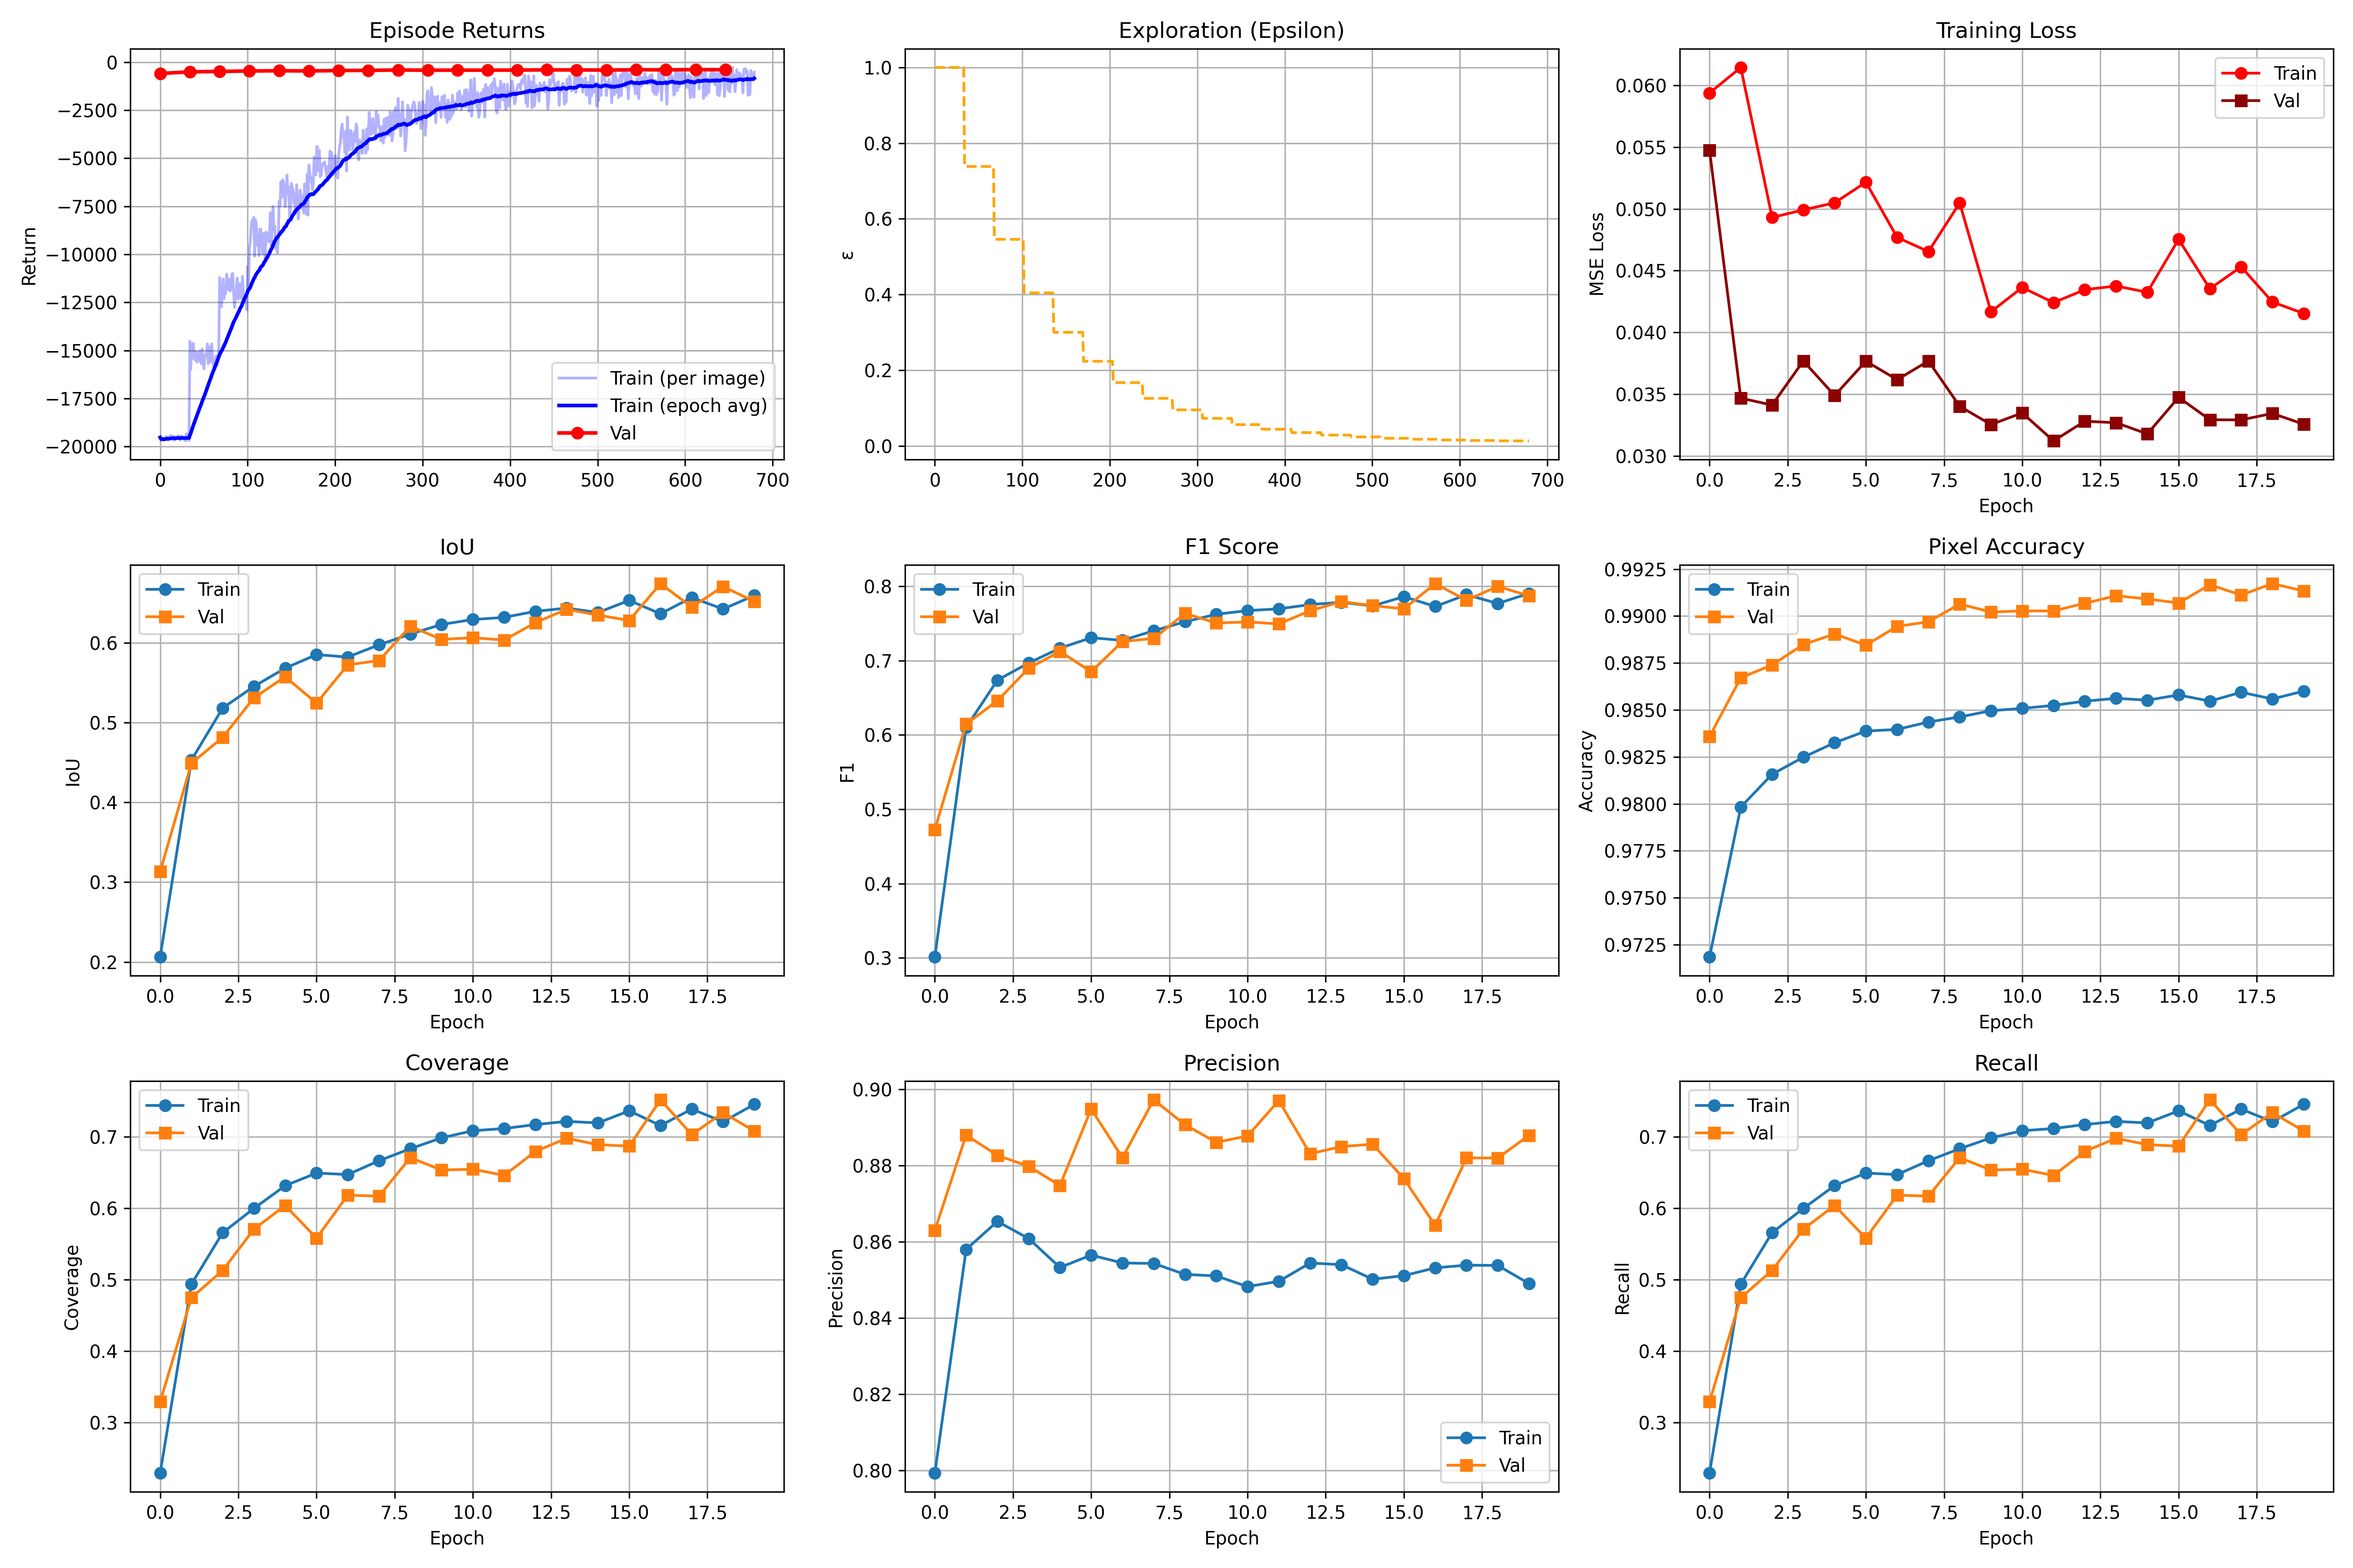
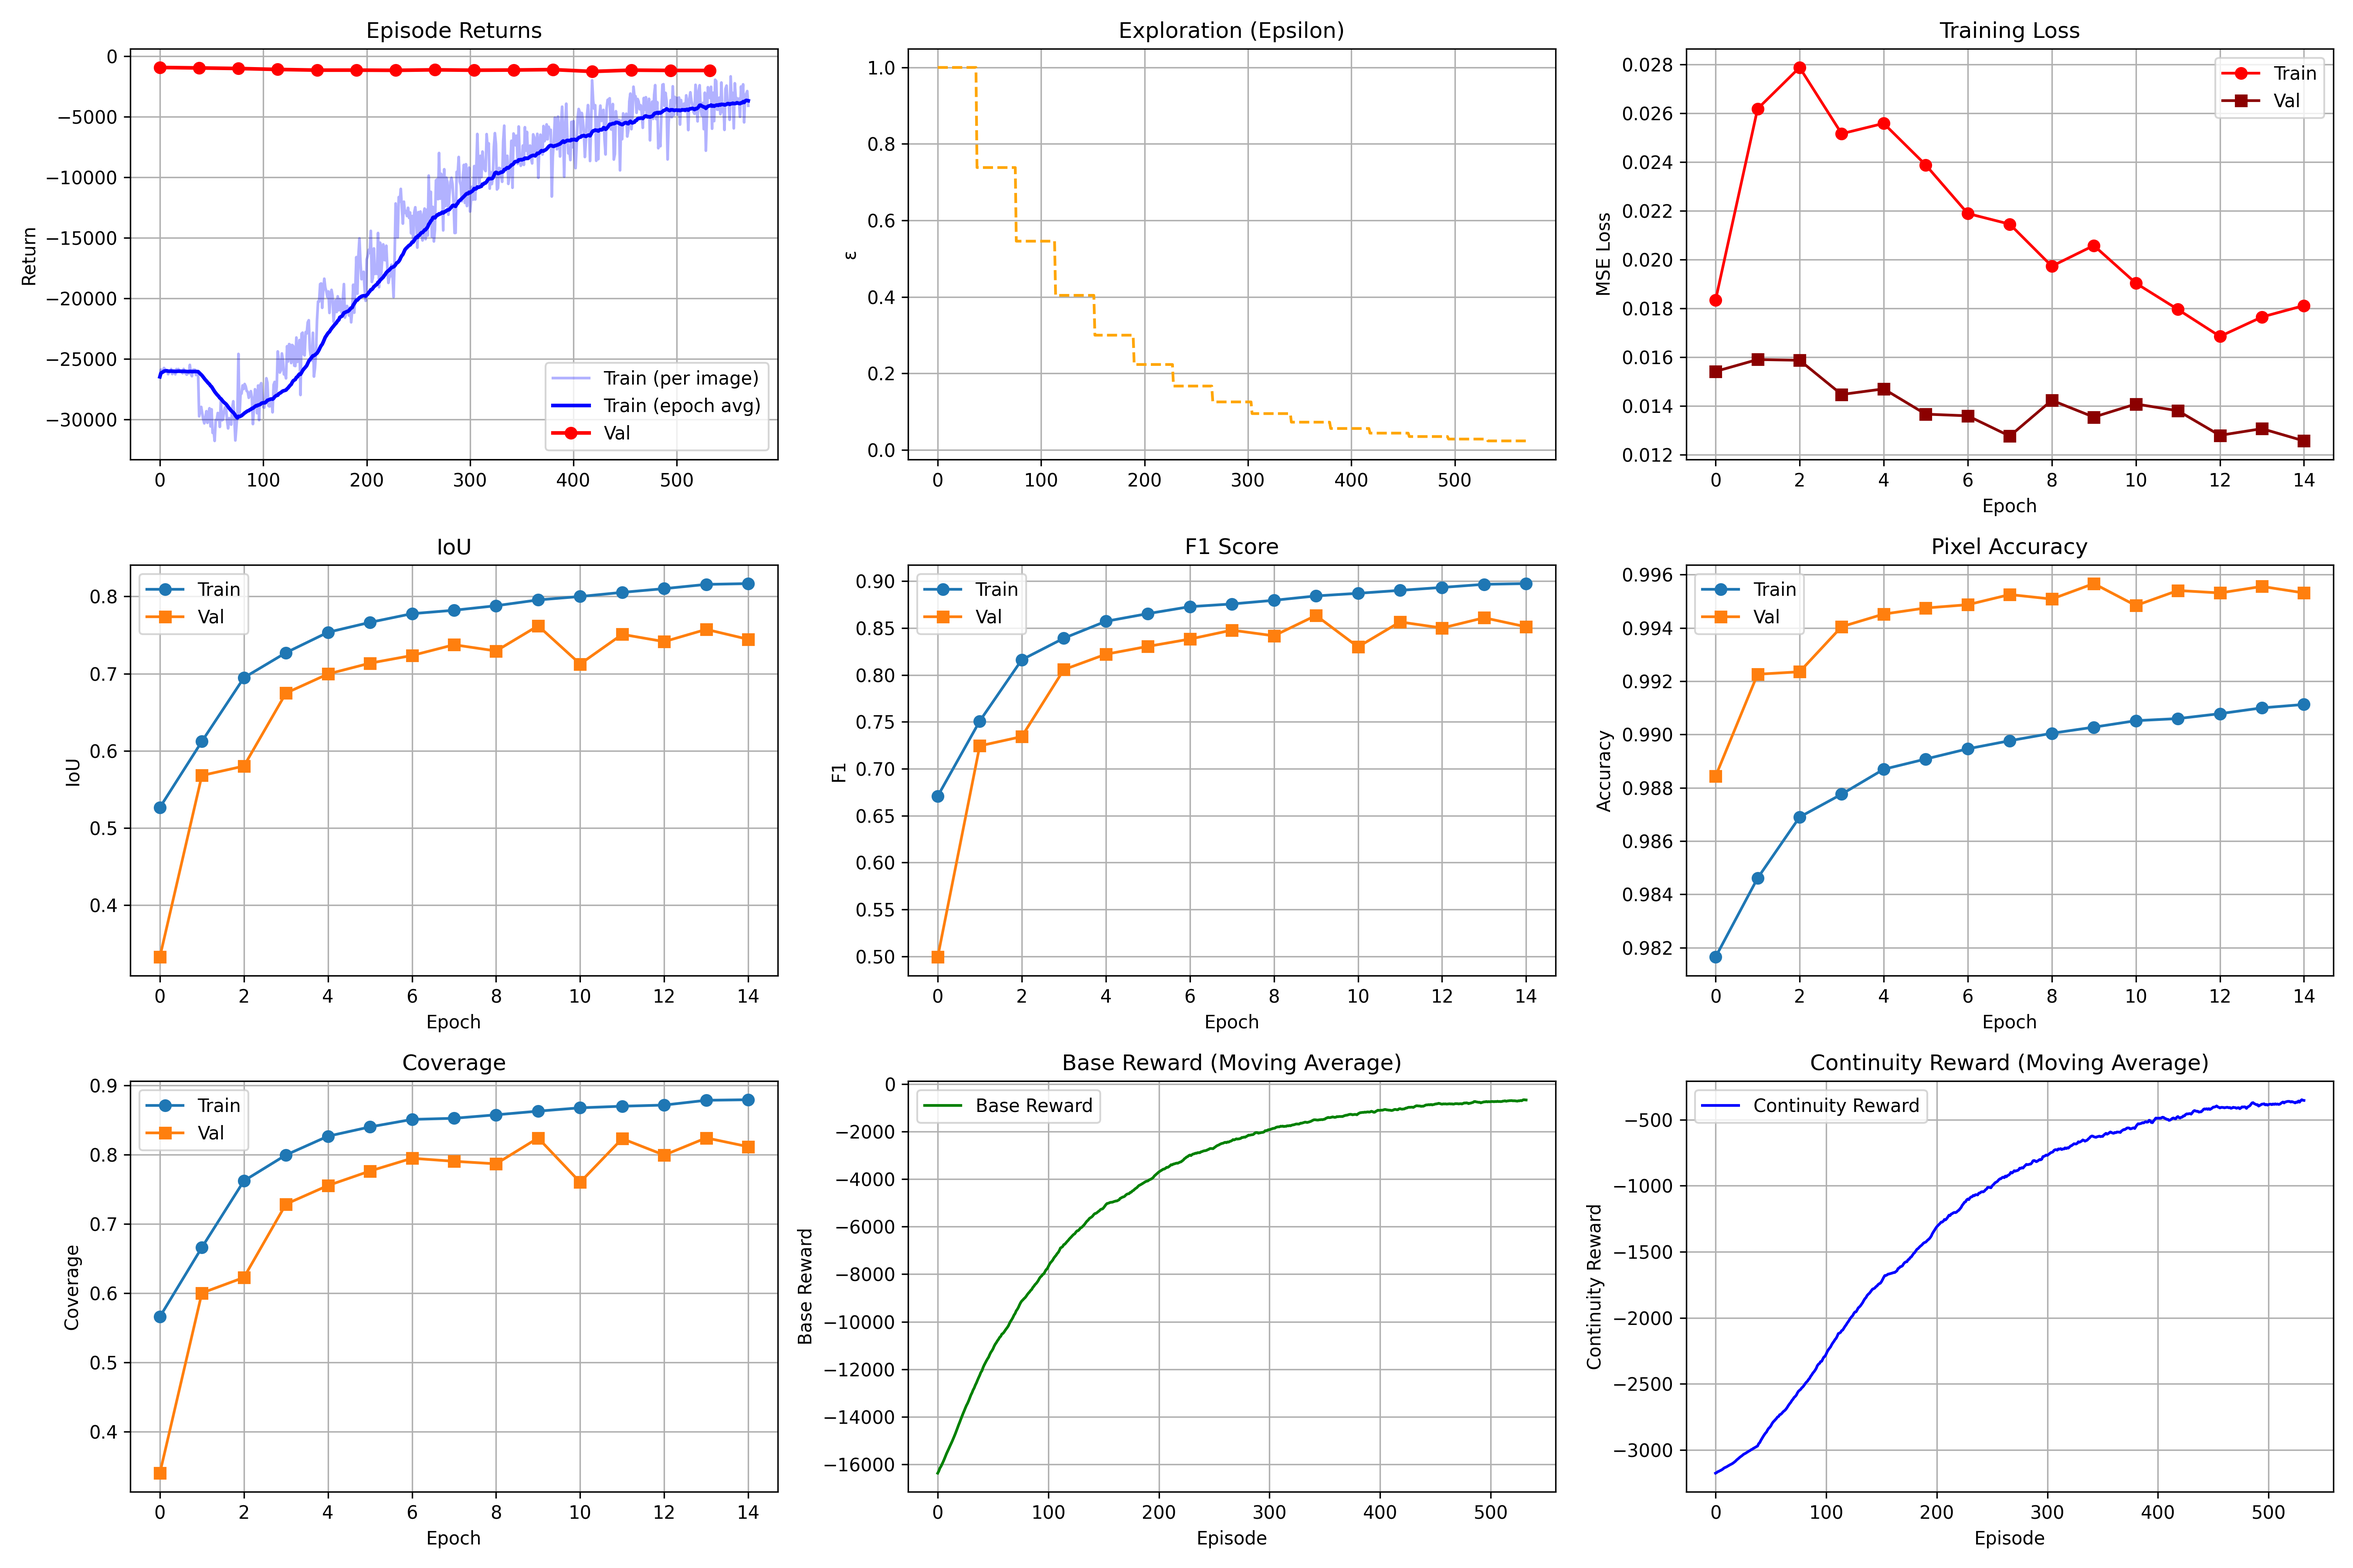
wip

diff --git a/codebase/dqn_row_based/main.py b/codebase/dqn_row_based/main.py
@@ -486,7 +486,7 @@ if __name__ == "__main__":
     results = train_dqn_on_images(
         list(zip(train_imgs, train_masks)),
         val_pairs=list(zip(val_imgs, val_masks)),
-        num_epochs=15,
+        num_epochs=20,
         continuity_coef=0.1,
         continuity_decay_factor=0.5,
         seed=123,
@@ -505,7 +505,7 @@ if __name__ == "__main__":
     visualize_result(img_test, mask_test, pred, save_dir="dqn_row_based")
 
     # Plot training curves
-    fig, axes = plt.subplots(3, 3, figsize=(18, 12))
+    fig, axes = plt.subplots(2, 3, figsize=(18, 12))
     
     # Returns (Train vs Val)
     axes[0, 0].plot(results["returns"], alpha=0.3, color='blue', label='Train (per image)')
@@ -514,118 +514,92 @@ if __name__ == "__main__":
     train_returns_ma = [np.mean(results["returns"][max(0, i-window+1):i+1]) 
                         for i in range(len(results["returns"]))]
     axes[0, 0].plot(train_returns_ma, color='blue', linewidth=2, label='Train (epoch avg)')
-    if results["val_returns"]:
-        axes[0, 0].plot(np.arange(len(results["val_returns"])) * len(train_imgs), 
-                        results["val_returns"], color='red', marker='o', linewidth=2, label='Val')
+    # if results["val_returns"]:
+    #     axes[0, 0].plot(np.arange(len(results["val_returns"])) * len(train_imgs), 
+    #                     results["val_returns"], color='red', marker='o', linewidth=2, label='Val')
     axes[0, 0].set_title("Episode Returns")
     axes[0, 0].set_ylabel("Return")
     axes[0, 0].legend()
     axes[0, 0].grid(True)
-    
-    # Epsilon
-    axes[0, 1].plot(results["epsilons"], color='orange', linestyle='dashed')
-    axes[0, 1].set_title("Exploration (Epsilon)")
-    axes[0, 1].set_ylabel("ε")
+
+    # Base reward
+    axes[0, 1].plot(np.convolve(results["base_returns"], 
+                                 np.ones(len(train_imgs))/len(train_imgs), 
+                                 mode='valid'), 
+                    label="Base Reward", color='green')
+    axes[0, 1].set_title("Base Reward (Moving Average)")
+    axes[0, 1].set_ylabel("Base Reward")
+    axes[0, 1].set_xlabel("Episode")
+    axes[0, 1].legend()
     axes[0, 1].grid(True)
-    
-    # Loss (Train vs Val)
-    axes[0, 2].plot(results["losses"], color='red', marker='o', label='Train')
-    if results["val_losses"]:
-        axes[0, 2].plot(results["val_losses"], color='darkred', marker='s', label='Val')
-    axes[0, 2].set_title("Training Loss")
-    axes[0, 2].set_ylabel("MSE Loss")
-    axes[0, 2].set_xlabel("Epoch")
+
+    # Continuity reward
+    axes[0, 2].plot(np.convolve(results["continuity_returns"], 
+                                 np.ones(len(train_imgs))/len(train_imgs),
+                                 mode='valid'), 
+                    label="Continuity Reward", color='blue')
+    axes[0, 2].set_title("Continuity Reward (Moving Average)")
+    axes[0, 2].set_ylabel("Continuity Reward")
+    axes[0, 2].set_xlabel("Episode")
     axes[0, 2].legend()
     axes[0, 2].grid(True)
     
-    # IoU
-    axes[1, 0].plot(results["train_metrics"]["iou"], label="Train", marker='o')
-    if results["val_metrics"]["iou"]:
-        axes[1, 0].plot(results["val_metrics"]["iou"], label="Val", marker='s')
-    axes[1, 0].set_title("IoU")
-    axes[1, 0].set_ylabel("IoU")
-    axes[1, 0].set_xlabel("Epoch")
-    axes[1, 0].legend()
+    # Epsilon
+    axes[1, 0].plot(results["epsilons"], color='orange', linestyle='dashed')
+    axes[1, 0].set_title("Exploration (Epsilon)")
+    axes[1, 0].set_ylabel("ε")
     axes[1, 0].grid(True)
     
-    # F1 Score
-    axes[1, 1].plot(results["train_metrics"]["f1"], label="Train", marker='o')
-    if results["val_metrics"]["f1"]:
-        axes[1, 1].plot(results["val_metrics"]["f1"], label="Val", marker='s')
-    axes[1, 1].set_title("F1 Score")
-    axes[1, 1].set_ylabel("F1")
+    # Loss (Train vs Val)
+    axes[1, 1].plot(results["losses"], color='red', marker='o', label='Train')
+    if results["val_losses"]:
+        axes[1, 1].plot(results["val_losses"], color='darkred', marker='s', label='Val')
+    axes[1, 1].set_title("Training Loss")
+    axes[1, 1].set_ylabel("MSE Loss")
     axes[1, 1].set_xlabel("Epoch")
     axes[1, 1].legend()
     axes[1, 1].grid(True)
     
-    # Accuracy
-    axes[1, 2].plot(results["train_metrics"]["accuracy"], label="Train", marker='o')
-    if results["val_metrics"]["accuracy"]:
-        axes[1, 2].plot(results["val_metrics"]["accuracy"], label="Val", marker='s')
-    axes[1, 2].set_title("Pixel Accuracy")
-    axes[1, 2].set_ylabel("Accuracy")
+    # IoU
+    axes[1, 2].plot(results["train_metrics"]["iou"], label="Train", marker='o')
+    if results["val_metrics"]["iou"]:
+        axes[1, 2].plot(results["val_metrics"]["iou"], label="Val", marker='s')
+    axes[1, 2].set_title("IoU")
+    axes[1, 2].set_ylabel("IoU")
     axes[1, 2].set_xlabel("Epoch")
     axes[1, 2].legend()
     axes[1, 2].grid(True)
     
-    # Coverage
-    axes[2, 0].plot(results["train_metrics"]["coverage"], label="Train", marker='o')
-    if results["val_metrics"]["coverage"]:
-        axes[2, 0].plot(results["val_metrics"]["coverage"], label="Val", marker='s')
-    axes[2, 0].set_title("Coverage")
-    axes[2, 0].set_ylabel("Coverage")
-    axes[2, 0].set_xlabel("Epoch")
-    axes[2, 0].legend()
-    axes[2, 0].grid(True)
-
-    # Base reward
-    axes[2, 1].plot(np.convolve(results["base_returns"], 
-                                 np.ones(len(train_imgs))/len(train_imgs), 
-                                 mode='valid'), 
-                    label="Base Reward", color='green')
-    axes[2, 1].set_title("Base Reward (Moving Average)")
-    axes[2, 1].set_ylabel("Base Reward")
-    axes[2, 1].set_xlabel("Episode")
-    axes[2, 1].legend()
-    axes[2, 1].grid(True)
-
-    # Continuity reward
-    axes[2, 2].plot(np.convolve(results["continuity_returns"], 
-                                 np.ones(len(train_imgs))/len(train_imgs),
-                                 mode='valid'), 
-                    label="Continuity Reward", color='blue')
-    axes[2, 2].set_title("Continuity Reward (Moving Average)")
-    axes[2, 2].set_ylabel("Continuity Reward")
-    axes[2, 2].set_xlabel("Episode")
-    axes[2, 2].legend()
-    axes[2, 2].grid(True)
-
-    # # Precision
-    # if "precision" in results["train_metrics"]:
-    #     axes[2, 1].plot([m for m in results["train_metrics"].get("precision", [])], 
-    #                     label="Train", marker='o')
-    #     if "precision" in results["val_metrics"]:
-    #         axes[2, 1].plot([m for m in results["val_metrics"].get("precision", [])], 
-    #                        label="Val", marker='s')
-    #     axes[2, 1].set_title("Precision")
-    #     axes[2, 1].set_ylabel("Precision")
-    #     axes[2, 1].set_xlabel("Epoch")
-    #     axes[2, 1].legend()
-    #     axes[2, 1].grid(True)
+    # # F1 Score
+    # axes[1, 1].plot(results["train_metrics"]["f1"], label="Train", marker='o')
+    # if results["val_metrics"]["f1"]:
+    #     axes[1, 1].plot(results["val_metrics"]["f1"], label="Val", marker='s')
+    # axes[1, 1].set_title("F1 Score")
+    # axes[1, 1].set_ylabel("F1")
+    # axes[1, 1].set_xlabel("Epoch")
+    # axes[1, 1].legend()
+    # axes[1, 1].grid(True)
     
-    # # Recall
-    # if "recall" in results["train_metrics"]:
-    #     axes[2, 2].plot([m for m in results["train_metrics"].get("recall", [])], 
-    #                     label="Train", marker='o')
-    #     if "recall" in results["val_metrics"]:
-    #         axes[2, 2].plot([m for m in results["val_metrics"].get("recall", [])], 
-    #                        label="Val", marker='s')
-    #     axes[2, 2].set_title("Recall")
-    #     axes[2, 2].set_ylabel("Recall")
-    #     axes[2, 2].set_xlabel("Epoch")
-    #     axes[2, 2].legend()
-    #     axes[2, 2].grid(True)
+    # # Accuracy
+    # axes[1, 2].plot(results["train_metrics"]["accuracy"], label="Train", marker='o')
+    # if results["val_metrics"]["accuracy"]:
+    #     axes[1, 2].plot(results["val_metrics"]["accuracy"], label="Val", marker='s')
+    # axes[1, 2].set_title("Pixel Accuracy")
+    # axes[1, 2].set_ylabel("Accuracy")
+    # axes[1, 2].set_xlabel("Epoch")
+    # axes[1, 2].legend()
+    # axes[1, 2].grid(True)
     
+    # # Coverage
+    # axes[2, 0].plot(results["train_metrics"]["coverage"], label="Train", marker='o')
+    # if results["val_metrics"]["coverage"]:
+    #     axes[2, 0].plot(results["val_metrics"]["coverage"], label="Val", marker='s')
+    # axes[2, 0].set_title("Coverage")
+    # axes[2, 0].set_ylabel("Coverage")
+    # axes[2, 0].set_xlabel("Epoch")
+    # axes[2, 0].legend()
+    # axes[2, 0].grid(True)
+
     plt.tight_layout()
     plt.savefig(f"{os.getcwd()}/dqn_row_based/results.png", dpi=300)
     plt.show()
